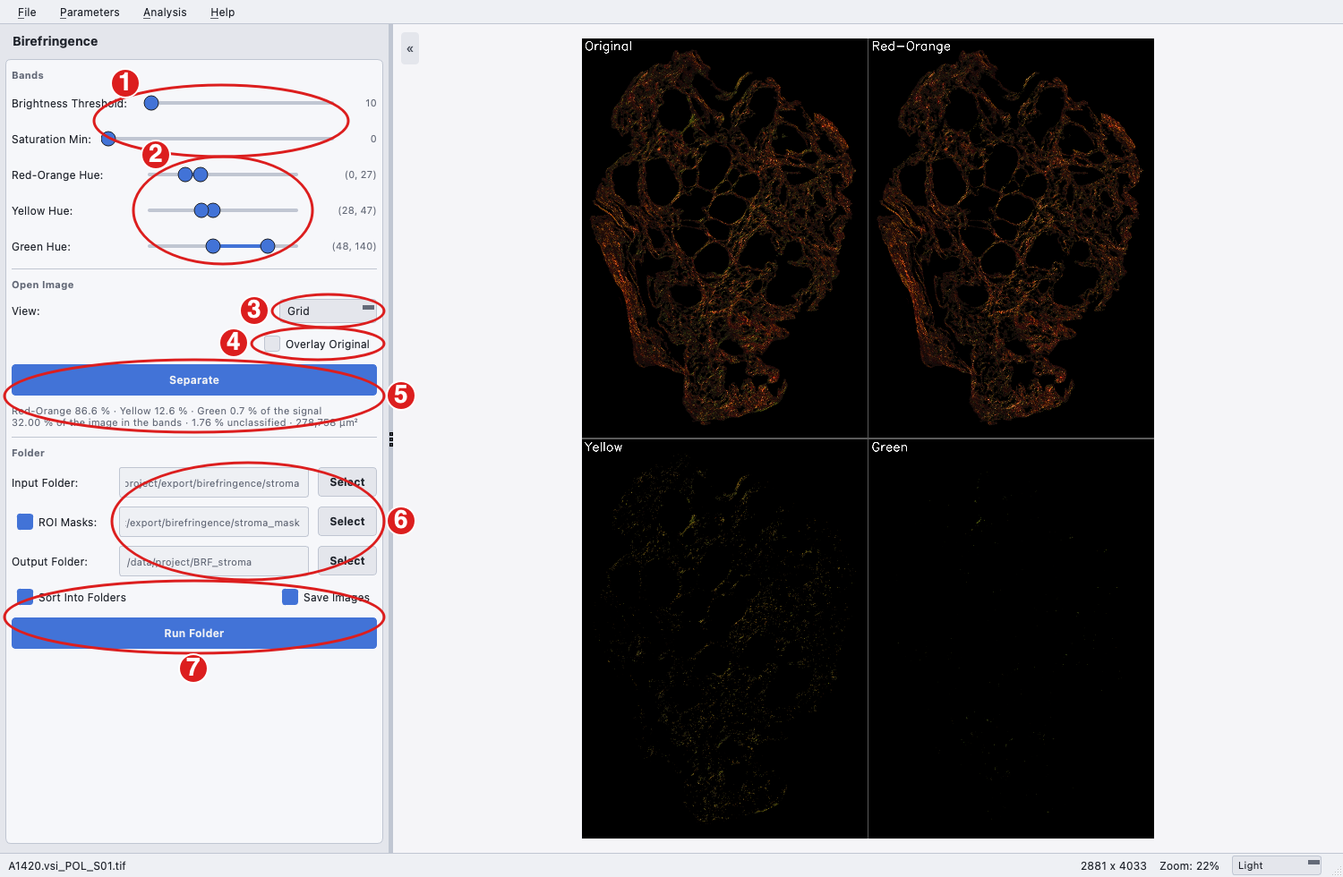
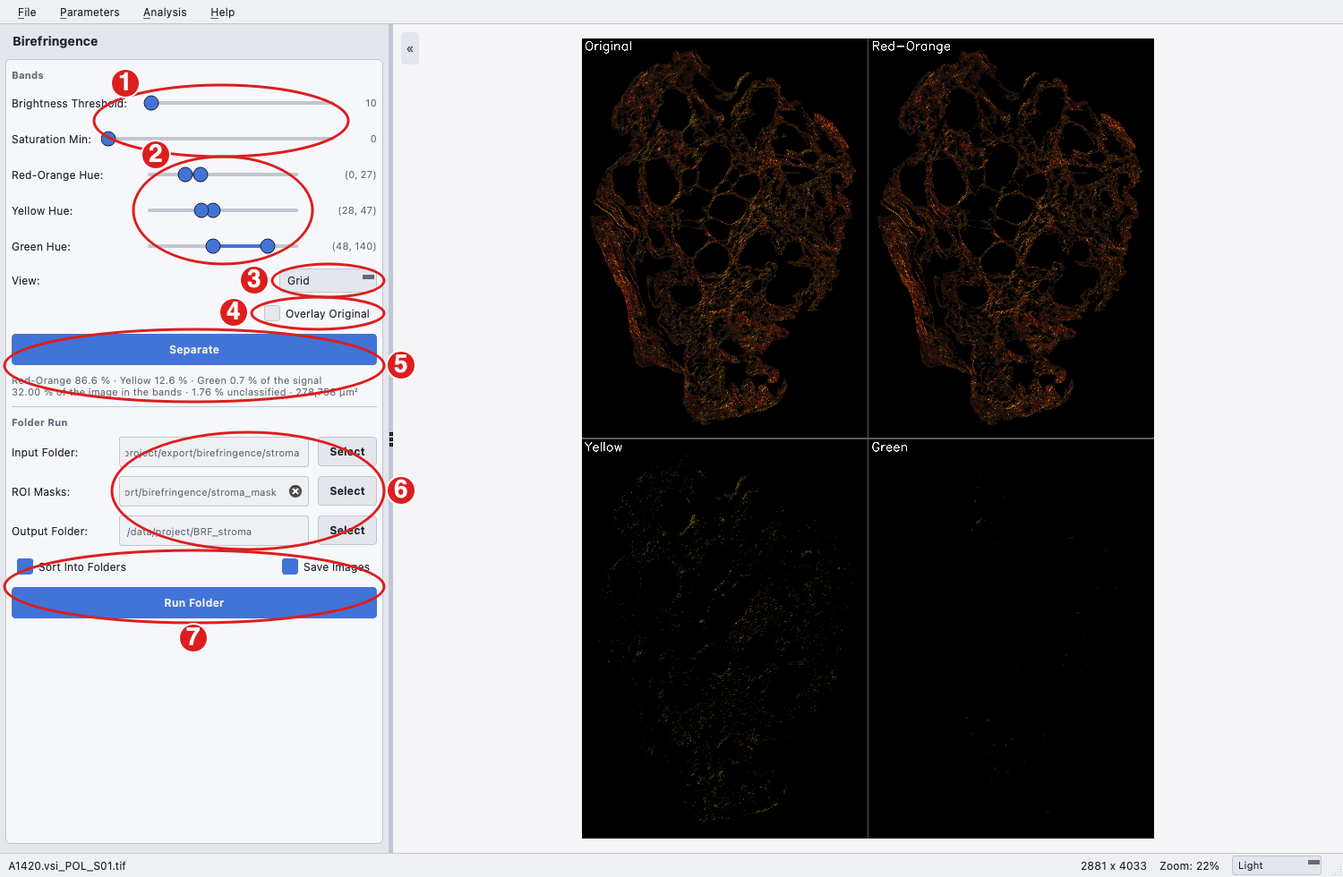
Simplify ROI mask fields; two sections; Birefringence before Segmentation
An empty ROI mask folder means no masks on both the Birefringence and
Batch Run pages; a clear icon in the field replaces the checkbox and
the clear button. The Birefringence page has two sections, Bands and
Folder Run, and moves before Segmentation in the Analysis menu, since
it prepares images for the analysis pages. Per-patient statistics treat
total as a channel, like red, yellow and green.

Changed region(s): [[0.0, 0.2755, 0.3067, 0.7959], [0.0, 0.3061, 0.0613, 0.3367]]

diff --git a/cabana/cabana_gui.py b/cabana/cabana_gui.py
@@ -198,7 +198,7 @@ class MainWindow(QMainWindow):
         self._page_titles = ["Start"]
         self.pages.addWidget(self.start_tab)
         for (title, action), page in zip(self._page_actions,
-                                         (self.tma_tab, self.seg_tab, self.brf_tab, self.det_tab,
+                                         (self.tma_tab, self.brf_tab, self.seg_tab, self.det_tab,
                                           self.gap_tab, self.bat_tab)):
             index = self.pages.addWidget(page)
             self._page_titles.append(title)
@@ -397,7 +397,7 @@ class MainWindow(QMainWindow):
         # ExclusiveOptional lets the Start page leave every Analysis entry unchecked
         self._page_group.setExclusionPolicy(QActionGroup.ExclusionPolicy.ExclusiveOptional)
         self._page_actions = []
-        for i, title in enumerate(("TMA Dearrayer", "Segmentation", "Birefringence", "Fibre Detection",
+        for i, title in enumerate(("TMA Dearrayer", "Birefringence", "Segmentation", "Fibre Detection",
                                    "Gap Analysis", "Batch Run")):
             action = QAction(title, self)
             action.setCheckable(True)
@@ -862,13 +862,9 @@ class MainWindow(QMainWindow):
         self.mask_btn.setStyleSheet(self.btn_style)
         mask_layout.addWidget(self.mask_btn)
 
-        self.mask_clear_btn = QPushButton("✕")
-        self.mask_clear_btn.setToolTip("Clear the ROI mask folder")
-        self.mask_clear_btn.clicked.connect(self.clear_mask_folder)
-        self.mask_clear_btn.setStyleSheet(self.btn_style)
-        self.mask_clear_btn.setFixedWidth(34)
-        self.mask_clear_btn.setEnabled(False)
-        mask_layout.addWidget(self.mask_clear_btn)
+        # empty = no masks; the clear icon in the field empties it
+        self.mask_clear_action = add_clear_action(self.mask_folder_path, self.clear_mask_folder,
+                                                  "Clear the ROI mask folder (no masks)")
 
         layout.addLayout(mask_layout)
         self.mask_folder = None
@@ -1966,7 +1962,6 @@ class MainWindow(QMainWindow):
         self.mask_folder = folder or None
         self.mask_folder_path.setText(folder or "")
         self.mask_folder_path.setToolTip(folder or "")
-        self.mask_clear_btn.setEnabled(bool(folder))
 
     def clear_mask_folder(self):
         self.set_mask_folder(None)
@@ -2067,7 +2062,7 @@ class MainWindow(QMainWindow):
         self.input_btn.setEnabled(False)
         self.output_btn.setEnabled(False)
         self.mask_btn.setEnabled(False)
-        self.mask_clear_btn.setEnabled(False)
+        self.mask_clear_action.setEnabled(False)
         self.stats_cb.setEnabled(False)
         self.scores_cb.setEnabled(False)
         self.visuals_cb.setEnabled(False)
@@ -2119,7 +2114,7 @@ class MainWindow(QMainWindow):
         self.input_btn.setEnabled(True)
         self.output_btn.setEnabled(True)
         self.mask_btn.setEnabled(True)
-        self.mask_clear_btn.setEnabled(bool(self.mask_folder))
+        self.mask_clear_action.setEnabled(True)
         self.stats_cb.setEnabled(True)
         self.scores_cb.setEnabled(True)
         self.visuals_cb.setEnabled(True)
@@ -2428,8 +2423,9 @@ class MainWindow(QMainWindow):
             self.brf_section_titles.append(label)
 
         # --- Bands: used by both the open image and the folder run ---
-        section("Bands", "How pixels are assigned to the red-orange, yellow and green bands; used for the\n"
-                         "open image and for Run Folder. The macro's defaults at every start of Cabana.")
+        section("Bands", "How pixels are assigned to the red-orange, yellow and green bands, checked on the\n"
+                         "open image with Separate and used by Folder Run. The macro's defaults at every\n"
+                         "start of Cabana.")
 
         # Brightness threshold
         bright_layout = QHBoxLayout()
@@ -2491,10 +2487,6 @@ class MainWindow(QMainWindow):
             self.brf_band_sliders.append(slider)
             self.brf_band_values.append(value)
 
-        # --- Open Image: preview of the image open in the viewer ---
-        layout.addWidget(create_separator())
-        section("Open Image", "Separate the bands of the image open in the viewer, to check the settings.")
-
         # View
         view_layout = QHBoxLayout()
         view_layout.addWidget(QLabel("View:"))
@@ -2546,7 +2538,7 @@ class MainWindow(QMainWindow):
 
         # --- Folder: colour separation only, no segmentation or fibre analysis ---
         layout.addWidget(create_separator())
-        section("Folder", "Separates every image of a folder with the band settings and writes the band\n"
+        section("Folder Run", "Separates every image of a folder with the band settings and writes the band\n"
                           "images and tables; no segmentation or fibre analysis. The band images can then\n"
                           "be analysed on the Batch Run page with a polarised-light parameter file.")
 
@@ -2574,22 +2566,17 @@ class MainWindow(QMainWindow):
         _, self.brf_input_path, self.brf_input_btn = folder_row(
             "Input Folder:", "Folder of polarised-light images (TIFF/PNG/JPEG); the pixel size is read from\n"
             "each image's metadata.", self.select_brf_input_folder)
-        # Ticked: measure each image inside its mask; unticked: whole images
-        self.brf_mask_cb = QCheckBox("ROI Masks:")
-        self.brf_mask_cb.setChecked(False)
-        self.brf_mask_cb.setStyleSheet(self.checkbox_style)
-        self.brf_mask_cb.toggled.connect(self._brf_mask_toggled)
-        self.brf_mask_cb.setToolTip("Tick to measure each image inside its mask; untick to measure whole images.")
         _, self.brf_mask_path, self.brf_mask_btn = folder_row(
-            self.brf_mask_cb, "Binary masks named like the images (white = measure), e.g. the stroma masks\n"
-            "exported from QuPath or a TMA export's Masks folder.",
-            self.select_brf_mask_folder, placeholder="Not used: whole images are measured")
-        self.brf_mask_path.setEnabled(False)
+            "ROI Masks:", "Optional. Binary masks named like the images (white = measure), e.g. the stroma\n"
+            "masks exported from QuPath or a TMA export's Masks folder. Empty: whole images.",
+            self.select_brf_mask_folder, placeholder="Optional: leave empty to measure whole images")
+        self.brf_mask_clear_action = add_clear_action(self.brf_mask_path, lambda: self.set_brf_mask_folder(None),
+                                                      "Clear the ROI mask folder (whole images)")
         _, self.brf_output_path, self.brf_output_btn = folder_row(
             "Output Folder:", "Where Total, Red, Yellow, Green and Stats are written. Files of the same names\n"
             "are replaced; nothing else is deleted.", self.select_brf_output_folder)
         self.brf_input_folder = self.brf_mask_folder = self.brf_output_folder = None
-        # one width for the three row labels (the ROI Masks tick box needs more than a label)
+        # one width for the three row labels
         label_width = max(label.sizeHint().width() for label in folder_labels)
         for label in folder_labels:
             label.setFixedWidth(label_width)
@@ -2700,29 +2687,10 @@ class MainWindow(QMainWindow):
             self.set_brf_mask_folder(folder)
 
     def set_brf_mask_folder(self, folder):
-        """Use ``folder`` as the ROI mask folder (ticks ROI Masks); None: whole images."""
+        """The ROI mask folder of Folder Run; None (empty): whole images."""
         self.brf_mask_folder = folder or None
         self.brf_mask_path.setText(folder or "")
         self.brf_mask_path.setToolTip(folder or "")
-        self.brf_mask_cb.blockSignals(True)
-        self.brf_mask_cb.setChecked(bool(folder))
-        self.brf_mask_cb.blockSignals(False)
-        self.brf_mask_path.setEnabled(bool(folder))
-
-    def _brf_mask_toggled(self, on):
-        """ROI Masks ticked: ask for the folder if none is set yet; unticked: whole images."""
-        if on and not self.brf_mask_folder:
-            self.select_brf_mask_folder()
-            if not self.brf_mask_folder:
-                self.brf_mask_cb.blockSignals(True)
-                self.brf_mask_cb.setChecked(False)
-                self.brf_mask_cb.blockSignals(False)
-                return
-        self.brf_mask_path.setEnabled(on)
-
-    def _brf_mask_dir(self):
-        """The ROI mask folder of a folder run, or None for whole images."""
-        return self.brf_mask_folder if self.brf_mask_cb.isChecked() else None
 
     def select_brf_output_folder(self):
         folder = QFileDialog.getExistingDirectory(self, "Select Output Folder", "", QFileDialog.ShowDirsOnly)
@@ -2754,7 +2722,7 @@ class MainWindow(QMainWindow):
                 "Continue", "Cancel"):
             return
         self.brf_folder_worker = BRFFolderWorker(dict(self._brf_settings), self.brf_input_folder, out,
-                                                 self._brf_mask_dir(), self.brf_images_cb.isChecked())
+                                                 self.brf_mask_folder, self.brf_images_cb.isChecked())
         self.brf_folder_worker.progress_updated.connect(self._brf_folder_progress)
         self.brf_folder_worker.run_complete.connect(self.handle_brf_folder_complete)
         self.brf_folder_worker.failed.connect(self.handle_brf_folder_failed)
@@ -4241,7 +4209,7 @@ class MainWindow(QMainWindow):
         # Buttons
         for btn in (self.start_open_btn, self.start_params_btn,
                     self.param_btn, self.input_btn, self.output_btn, self.cancel_batch_btn,
-                     self.mask_btn, self.mask_clear_btn, self.tma_slide_btn, self.tma_output_btn,
+                     self.mask_btn, self.tma_slide_btn, self.tma_output_btn,
                      self.tma_cancel_btn, self.tma_undo_btn, self.tma_load_edits_btn, self.tma_save_edits_btn,
                      self.brf_input_btn, self.brf_mask_btn, self.brf_output_btn):
             btn.setStyleSheet(self.btn_style)
@@ -4275,7 +4243,7 @@ class MainWindow(QMainWindow):
                    self.extend_line_cb, self.overlay_fibres_cb, self.overlay_gaps_cb,
                    self.stats_cb, self.scores_cb, self.visuals_cb, self.tma_recover_cb, self.tma_core_auto_cb,
                    self.tma_edit_cb, self.tma_links_cb, *self.tma_channel_cbs.values(),
-                   self.brf_sort_cb, self.brf_original_cb, self.brf_images_cb, self.brf_mask_cb):
+                   self.brf_sort_cb, self.brf_original_cb, self.brf_images_cb):
             cb.setStyleSheet(self.checkbox_style)
 
         # Path edits

diff --git a/tests/test_gui_birefringence.py b/tests/test_gui_birefringence.py
@@ -55,9 +55,10 @@ def _separate(win, monkeypatch):
     return shown
 
 
-def test_page_sits_after_segmentation_and_starts_at_the_macro_defaults(win):
+def test_page_sits_between_tma_and_segmentation_and_starts_at_the_macro_defaults(win):
     titles = win._page_titles
-    assert titles.index("Birefringence") == titles.index("Segmentation") + 1
+    assert titles.index("Birefringence") == titles.index("TMA Dearrayer") + 1
+    assert titles.index("Segmentation") == titles.index("Birefringence") + 1
     assert win.pages.indexOf(win.brf_tab) == titles.index("Birefringence")
     assert not win.brf_btn.isEnabled() and win.brf_view_combo.currentText() == "Grid"   # no image yet
     assert win._brf_settings == brf.DEFAULTS
@@ -183,7 +184,7 @@ def test_run_folder_separates_a_folder(win, tmp_path, monkeypatch, app):
     os.rename(mask_dir, tmp_path / "stroma_mask")
     assert not win.brf_run_btn.isEnabled()
     win.set_brf_input_folder(str(stroma))
-    assert win.brf_mask_folder == str(tmp_path / "stroma_mask") and win.brf_mask_cb.isChecked()
+    assert win.brf_mask_folder == str(tmp_path / "stroma_mask") and win.brf_mask_clear_action.isVisible()
     win.set_brf_output_folder(str(tmp_path / "out"))
     assert win.brf_run_btn.isEnabled()
     messages = []
@@ -229,26 +230,17 @@ def test_run_folder_reports_an_output_folder_holding_the_input(win, tmp_path, mo
     assert win.brf_run_btn.text() == "Run Folder"
 
 
-def test_roi_masks_checkbox_switches_between_masks_and_whole_images(win, tmp_path, monkeypatch, app):
+def test_empty_roi_masks_means_whole_images(win, tmp_path, monkeypatch, app):
     import pandas as pd
-    from PyQt5.QtWidgets import QFileDialog
     from cabana.stages import BRF_RESULTS
     from tests.test_brf_folder import _write_inputs
     img_dir, mask_dir = _write_inputs(tmp_path)
     win.set_brf_input_folder(img_dir)
-    assert win._brf_mask_dir() == mask_dir                      # Masks/ next to Images/ is picked up
-    win.set_brf_mask_folder(None)
-    assert not win.brf_mask_cb.isChecked() and win._brf_mask_dir() is None
-    # ticking without a folder asks for one; cancelling the dialog leaves it unticked
-    monkeypatch.setattr(QFileDialog, "getExistingDirectory", staticmethod(lambda *a, **k: ""))
-    win.brf_mask_cb.setChecked(True)
-    assert not win.brf_mask_cb.isChecked() and not win.brf_mask_path.isEnabled()
-    monkeypatch.setattr(QFileDialog, "getExistingDirectory", staticmethod(lambda *a, **k: mask_dir))
-    win.brf_mask_cb.setChecked(True)
-    assert win.brf_mask_cb.isChecked() and win._brf_mask_dir() == mask_dir and win.brf_mask_path.isEnabled()
-    # unticked: the folder is kept but not used
-    win.brf_mask_cb.setChecked(False)
-    assert win._brf_mask_dir() is None and win.brf_mask_path.text() == mask_dir
+    assert win.brf_mask_folder == mask_dir                       # Masks/ next to Images/ is picked up
+    assert win.brf_mask_clear_action.isVisible()
+    win.brf_mask_clear_action.trigger()                          # the clear icon in the field
+    assert win.brf_mask_folder is None and win.brf_mask_path.text() == ""
+    assert not win.brf_mask_clear_action.isVisible()
     win.set_brf_output_folder(str(tmp_path / "out"))
     messages = []
     monkeypatch.setattr(win, "_notify", lambda *a, **k: messages.append(a))
@@ -258,9 +250,16 @@ def test_roi_masks_checkbox_switches_between_masks_and_whole_images(win, tmp_pat
     assert results.loc[0, "Region Pixels"] == 160 * 160                      # whole image
 
 
-def test_page_has_three_titled_sections(win):
-    assert [t.text() for t in win.brf_section_titles] == ["Bands", "Open Image", "Folder"]
+def test_page_has_two_titled_sections(win):
+    assert [t.text() for t in win.brf_section_titles] == ["Bands", "Folder Run"]
     for t in win.brf_section_titles:
         t.setStyleSheet("")
     win._reapply_widget_styles()
     assert all("font-weight: 600" in t.styleSheet() for t in win.brf_section_titles)
+
+
+def test_batch_run_mask_folder_is_cleared_in_the_field(win):
+    win.set_mask_folder("/some/masks")
+    assert win.mask_clear_action.isVisible()
+    win.mask_clear_action.trigger()
+    assert win.mask_folder is None and win.mask_folder_path.text() == "" and not win.mask_clear_action.isVisible()

diff --git a/cabana/ui.py b/cabana/ui.py
@@ -547,6 +547,18 @@ def create_separator():
     return sep
 
 
+def add_clear_action(edit, on_clear, tip="Clear"):
+    """A small clear icon inside a (read-only) path field, shown only while the
+    field holds a path; clicking it calls ``on_clear``. Returns the action."""
+    from PyQt5.QtWidgets import QLineEdit, QStyle
+    action = edit.addAction(edit.style().standardIcon(QStyle.SP_LineEditClearButton), QLineEdit.TrailingPosition)
+    action.setToolTip(tip)
+    action.triggered.connect(on_clear)
+    action.setVisible(bool(edit.text()))
+    edit.textChanged.connect(lambda text: action.setVisible(bool(text)))
+    return action
+
+
 class PercentageProgressBar(QProgressBar):
     def __init__(self, parent=None):
         super().__init__(parent)

diff --git a/tests/test_scores.py b/tests/test_scores.py
@@ -458,3 +458,9 @@ class TestCompactResults:
         path = write_compact_results(_full_df(), str(full))
         assert path == str(tmp_path / 'QuantificationResults_Compact.csv')
         assert len(pd.read_csv(path).columns) == 35
+
+
+def test_total_band_images_are_a_channel_of_their_own():
+    assert parse_image_name("A1420.vsi_POL_S01_total_roi.png")["patient_id"] == "A1420_total"
+    assert parse_image_name("A1420.vsi_POL_S01_red_orange_roi.png")["patient_id"] == "A1420_red"
+    assert parse_image_name("A1420.vsi_POL_S01_roi.png")["patient_id"] == "A1420"

diff --git a/cabana/scores.py b/cabana/scores.py
@@ -85,7 +85,7 @@ def write_compact_results(df, results_csv):
     return path
 
 
-CHANNEL_NAMES = ('original', 'red', 'yellow', 'green')     # fixed order: matching must be deterministic
+CHANNEL_NAMES = ('original', 'red', 'yellow', 'green', 'total')     # fixed order: matching must be deterministic
 SHAPE_TYPES = {'ellipse', 'rectangle', 'polygon', 'line', 'polyline', 'points'}
 
 

diff --git a/docs/source/workflow.md b/docs/source/workflow.md
@@ -8,7 +8,7 @@ Once the Cabana GUI is launched, you will see a window split horizontally: the c
 
 ![Start page](media/start.png)
 
-1. **Menu bar.** All commands live here: **File** (open or reload an image, open a TMA slide, generate a TMA map template, quit; quitting asks for confirmation only when a job is running or TMA hand edits are unsaved), **Parameters** (import, export, restore defaults), **Analysis** (choose which page the control panel shows: **TMA**, **Segmentation**, **Birefringence**, **Fibre Detection**, **Gap Analysis** or **Batch Run**, shortcuts Ctrl/Cmd+1 to 6) and **Help** (about, documentation, issue tracker, **Check for Updates** (see [Updating Cabana](installation.md#updating-cabana); on macOS it is in the **Cabana** menu), version, licence).
+1. **Menu bar.** All commands live here: **File** (open or reload an image, open a TMA slide, generate a TMA map template, quit; quitting asks for confirmation only when a job is running or TMA hand edits are unsaved), **Parameters** (import, export, restore defaults), **Analysis** (choose which page the control panel shows: **TMA**, **Birefringence**, **Segmentation**, **Fibre Detection**, **Gap Analysis** or **Batch Run**, shortcuts Ctrl/Cmd+1 to 6) and **Help** (about, documentation, issue tracker, **Check for Updates** (see [Updating Cabana](installation.md#updating-cabana); on macOS it is in the **Cabana** menu), version, licence).
 2. **Open TMA Slide** opens a whole-slide scan on the TMA Dearrayer page.
 3. **Open Image** loads a single image to tune parameters on; the panel switches to Segmentation automatically. You can also drag an image onto the viewer.
 4. **Import Parameters** loads a saved `Parameters.yml` into the controls.
@@ -16,6 +16,24 @@ Once the Cabana GUI is launched, you will see a window split horizontally: the c
 The control panel shows one page at a time. Hover any label or control for a short description; the same hint appears in the status bar at the bottom, which also shows the loaded file, its size and the zoom. The theme selector sits at the bottom right.
 
 To begin, select a representative image from your dataset, then work through the Segmentation, Fibre Detection and Gap Analysis pages in that order to determine the settings for your analysis. For polarised-light (birefringence) images, the Birefringence page separates the red-orange, yellow and green colour bands, one image or a whole folder (**Run Folder**). Its settings are not part of the parameter file. The band images it writes can then be analysed like any other images: tune and export a polarised-light parameter file (segmentation off, **Dark Line** off) and use it on the Batch Run page.
+
+## Birefringence
+
+![Birefringence page](media/birefringence.png)
+
+Under polarised light, Picrosirius Red stained collagen shines red-orange, yellow or green, roughly from thick, densely packed fibres to thin, loosely packed ones. This page classifies the pixels of a polarised-light image into these colour bands as the CMM Lab PR-BRF Analyser ImageJ macro does; with the default settings the band pixel counts equal the macro's. A note appears when the open image looks bright-field, where the bands are meaningless.
+
+The page has two sections: **Bands**, how pixels are assigned to the bands, checked on the open image with **Separate**, and **Folder Run**, which applies them to every image of a folder.
+
+1. **Brightness Threshold** (default 10): darker pixels are background. **Saturation Min** (default 0): less saturated pixels belong to no band; at 0, grey pixels count as red-orange, as in the macro.
+2. **Red-Orange, Yellow and Green Hue.** The hue range of each band on ImageJ's 0 to 255 scale (defaults 0-27, 28-47 and 48-140, those of the macro). The bands stay joined: moving one edge moves the neighbouring band. Drag the red-orange band below 0 to include the deep red hues just below the wrap point (shown as, for example, 230-27); the default band leaves them out and reports them as unclassified.
+3. **View.** *Grid* (the default) shows the original image and the red-orange, yellow and green bands side by side; *Class map* paints each band in its colour and bright pixels in no band in grey, the quickest way to judge the band limits; *Total* and each band show those pixels in their original colour on black, as they are saved.
+4. **Overlay Original** shows the original image.
+5. **Separate** computes the bands of the open image; afterwards every setting updates the view at once. Below the button: each band's share of the birefringent signal, the share of the image in any band and in none (unclassified), and the area in the bands (when the image records its pixel size).
+6. **Run on a folder.** Colour separation of every image in the **Input Folder** with the settings above, without segmentation or fibre analysis. **ROI Masks** (optional) restricts the measurement of each image to its mask, matched by name as in Batch Run; leave it empty to measure whole images (the clear icon in the field empties it). When the input folder is a QuPath export such as `stroma`, its `stroma_mask` folder (or the `Masks` folder next to a TMA export's `Images`) is filled in automatically. Results go to the **Output Folder**; files of the same names are replaced and nothing else is deleted.
+7. **Sort Into Folders** (default on) puts the band images in `Total`, `Red`, `Yellow` and `Green` and the tables in `Stats`. **Save Images** (default on) writes the band images; untick it to write only the tables. **Run Folder** starts the run and turns into **Cancel** while it runs; a progress bar shows the image being separated.
+
+The settings start at the macro's defaults every time Cabana starts and are not saved in the parameter file. The output folder of **Run Folder** holds `Total/<image>_total.tif` (every pixel in a band, in its original colour) and `<image>_original.tif`, `Red/<image>_red_orange.tif`, `Yellow/<image>_yellow.tif`, `Green/<image>_green.tif`, `Stats/<image>_statistics.csv` and `Stats/ResultsBRF.csv` with one row per image (see [Read-outs](readouts.md#birefringence-colour-bands)), and `BRF_Settings.yml`, a record of the settings and folders used. The images are TIFFs carrying the pixel size; large sections are processed in strips, so they need little more memory than the image itself.
 
 ## Segmentation
 
@@ -27,24 +45,6 @@ To begin, select a representative image from your dataset, then work through the
 4. **Patch Size** (1024 px by default): larger images are segmented in overlapping square patches. The network is trained once on the whole image and then labels each patch at a higher resolution, so fine detail survives on images of several thousand pixels such as TMA cores. Off shrinks the whole image to 512 px. **Max Size** (5000 px by default) is the largest image a batch run analyses as one piece: images with more pixels than its square are split into blocks of at most this size, each analysed (and segmented) as a separate image. *No limit* analyses every image whole, and very large images may run out of memory; the smallest value is 2048 px. It is saved with the other parameters by **Parameters > Export**. A note below the two boxes says when the open image would be split in a batch run (the segmentation preview always uses the whole image), and when Patch Size is so large that it cannot apply to the blocks.
 5. **White Background.** Fills the non-ROI area with white (default). Disable it when detecting bright fibres on a dark background. **Overlay Original** blends the segmentation with the original image in the viewer.
 6. **Segment** runs the step; the result replaces the image in the viewer.
-
-## Birefringence
-
-![Birefringence page](media/birefringence.png)
-
-Under polarised light, Picrosirius Red stained collagen shines red-orange, yellow or green, roughly from thick, densely packed fibres to thin, loosely packed ones. This page classifies the pixels of a polarised-light image into these colour bands as the CMM Lab PR-BRF Analyser ImageJ macro does; with the default settings the band pixel counts equal the macro's. A note appears when the open image looks bright-field, where the bands are meaningless.
-
-The page has three sections: **Bands** (how pixels are assigned to the bands, used by both other sections), **Open Image** (the image open in the viewer, to check the settings) and **Folder** (every image of a folder).
-
-1. **Brightness Threshold** (default 10): darker pixels are background. **Saturation Min** (default 0): less saturated pixels belong to no band; at 0, grey pixels count as red-orange, as in the macro.
-2. **Red-Orange, Yellow and Green Hue.** The hue range of each band on ImageJ's 0 to 255 scale (defaults 0-27, 28-47 and 48-140, those of the macro). The bands stay joined: moving one edge moves the neighbouring band. Drag the red-orange band below 0 to include the deep red hues just below the wrap point (shown as, for example, 230-27); the default band leaves them out and reports them as unclassified.
-3. **View.** *Grid* (the default) shows the original image and the red-orange, yellow and green bands side by side; *Class map* paints each band in its colour and bright pixels in no band in grey, the quickest way to judge the band limits; *Total* and each band show those pixels in their original colour on black, as they are saved.
-4. **Overlay Original** shows the original image.
-5. **Separate** computes the bands of the open image; afterwards every setting updates the view at once. Below the button: each band's share of the birefringent signal, the share of the image in any band and in none (unclassified), and the area in the bands (when the image records its pixel size).
-6. **Run on a folder.** Colour separation of every image in the **Input Folder** with the settings above, without segmentation or fibre analysis. Tick **ROI Masks** to measure each image inside its mask, matched by name as in Batch Run (ticking asks for the folder if none is set); unticked, whole images are measured. When the input folder is a QuPath export such as `stroma`, its `stroma_mask` folder (or the `Masks` folder next to a TMA export's `Images`) is filled in and ticked automatically. Results go to the **Output Folder**; files of the same names are replaced and nothing else is deleted.
-7. **Sort Into Folders** (default on) puts the band images in `Total`, `Red`, `Yellow` and `Green` and the tables in `Stats`. **Save Images** (default on) writes the band images; untick it to write only the tables. **Run Folder** starts the run and turns into **Cancel** while it runs; a progress bar shows the image being separated.
-
-The settings start at the macro's defaults every time Cabana starts and are not saved in the parameter file. The output folder of **Run Folder** holds `Total/<image>_total.tif` (every pixel in a band, in its original colour) and `<image>_original.tif`, `Red/<image>_red_orange.tif`, `Yellow/<image>_yellow.tif`, `Green/<image>_green.tif`, `Stats/<image>_statistics.csv` and `Stats/ResultsBRF.csv` with one row per image (see [Read-outs](readouts.md#birefringence-colour-bands)), and `BRF_Settings.yml`, a record of the settings and folders used. The images are TIFFs carrying the pixel size; large sections are processed in strips, so they need little more memory than the image itself.
 
 ## Fibre Detection
 
@@ -78,7 +78,7 @@ Once the settings on the three pages are chosen, use **Parameters > Export Param
 1. **Parameter File.** The exported `Parameters.yml`. Review it first, for example to disable segmentation or gap analysis.
 2. **Input Folder.** The folder of images to quantify (tif, png and jpg are supported).
 3. **Output Folder.** Where the results are written.
-4. **ROI Masks** (optional). A folder of binary masks named like the input images (white = analyse, black = ignore), such as a `BF/Patients/Masks/` or `POL/Patients/Masks/` folder written by the TMA Dearrayer page, restricts every measurement to the masked region. Leave it empty to rely on segmentation alone. The mask folder is a per-run path like the input and output folders; it is not stored in the parameter file, but the folder used is recorded in `version_params.yaml` in the output folder.
+4. **ROI Masks** (optional). A folder of binary masks named like the input images (white = analyse, black = ignore), such as a `BF/Patients/Masks/` or `POL/Patients/Masks/` folder written by the TMA Dearrayer page, restricts every measurement to the masked region. Leave it empty to rely on segmentation alone; the clear icon in the field empties it. The mask folder is a per-run path like the input and output folders; it is not stored in the parameter file, but the folder used is recorded in `version_params.yaml` in the output folder.
 5. **Batch Size.** Images are processed in batches (default 5) so that an interrupted run can be resumed. **Max Size** shows the parameter file's `Configs: Max Size` (see the Segmentation page); it cannot be changed here, so the parameter file kept with the results describes the run. To use another value, set it on the Segmentation page and export the parameters, or edit `Max Size` under `Configs` in the file.
 6. **Stats** and **Scores** add per-patient statistics (`QuantificationResults_MEAN_STD_SEM.csv`) and collagen risk scores (`QuantificationResults_SCORES.csv`) to the output; they require the TMA naming scheme. **Visualisations** (from the parameter file's `Configs: Save Visualisations`, on by default) saves the colour maps and gap overlay images; untick it to keep only the measurements (CSV files, maps and masks), which cuts storage about fivefold for TMA cores.
 7. **Process Batch** starts the run; the button turns into **Cancel** while it runs.
@@ -96,7 +96,7 @@ If a run is cancelled or stops with an error, the completed batches and a checkp
 
 | Field | Rule | Example value |
 |---|---|---|
-| Patient / sample ID | Everything before `.vsi` (or `.czi`). A leading `_` or space is ignored. A channel token (`red`, `green`, `yellow`, `original`) separated by `_`, `-`, `.` or spaces elsewhere in the name, as in `..._1_red_roi.png`, is appended to the ID (`K324_red`) so channels are tabulated separately. | `K324` |
+| Patient / sample ID | Everything before `.vsi` (or `.czi`). A leading `_` or space is ignored. A channel token (`red`, `green`, `yellow`, `original`, `total`) separated by `_`, `-`, `.` or spaces elsewhere in the name, as in `..._1_red_roi.png`, is appended to the ID (`K324_red`) so channels are tabulated separately. | `K324` |
 | Image type | `BF` or `POL` between underscores or spaces anywhere in the name | `BF` |
 | Sample type | The content of the last bracket after `Annotation`. Shape brackets QuPath adds, such as `(Ellipse)`, are skipped. Spaces are kept. | `Stroma FNA` |
 | ROI number | The first number after the last closing bracket | `1` |

diff --git a/docs/source/changelog.md b/docs/source/changelog.md
@@ -9,7 +9,11 @@
   bands side by side. Run Folder separates every image in a folder, inside
   optional ROI masks, and writes the band images and tables (sorted into
   `Total`, `Red`, `Yellow`, `Green` and `Stats` by default); the band
-  images can then be analysed in a Batch Run like any other images.
+  images can then be analysed in a Batch Run like any other images;
+  per-patient statistics keep each band (`red`, `yellow`, `green`,
+  `total`) separate.
+- The ROI mask folder on the Batch Run page is cleared with the icon in its
+  field; an empty field means no masks.
 - Min Branch Length and the curvature windows are now set on the Fibre
   Detection page, and HDM Saturation (Contrast Enhancement) on the Gap
   Analysis page; before, they could only be edited in the parameter file.
